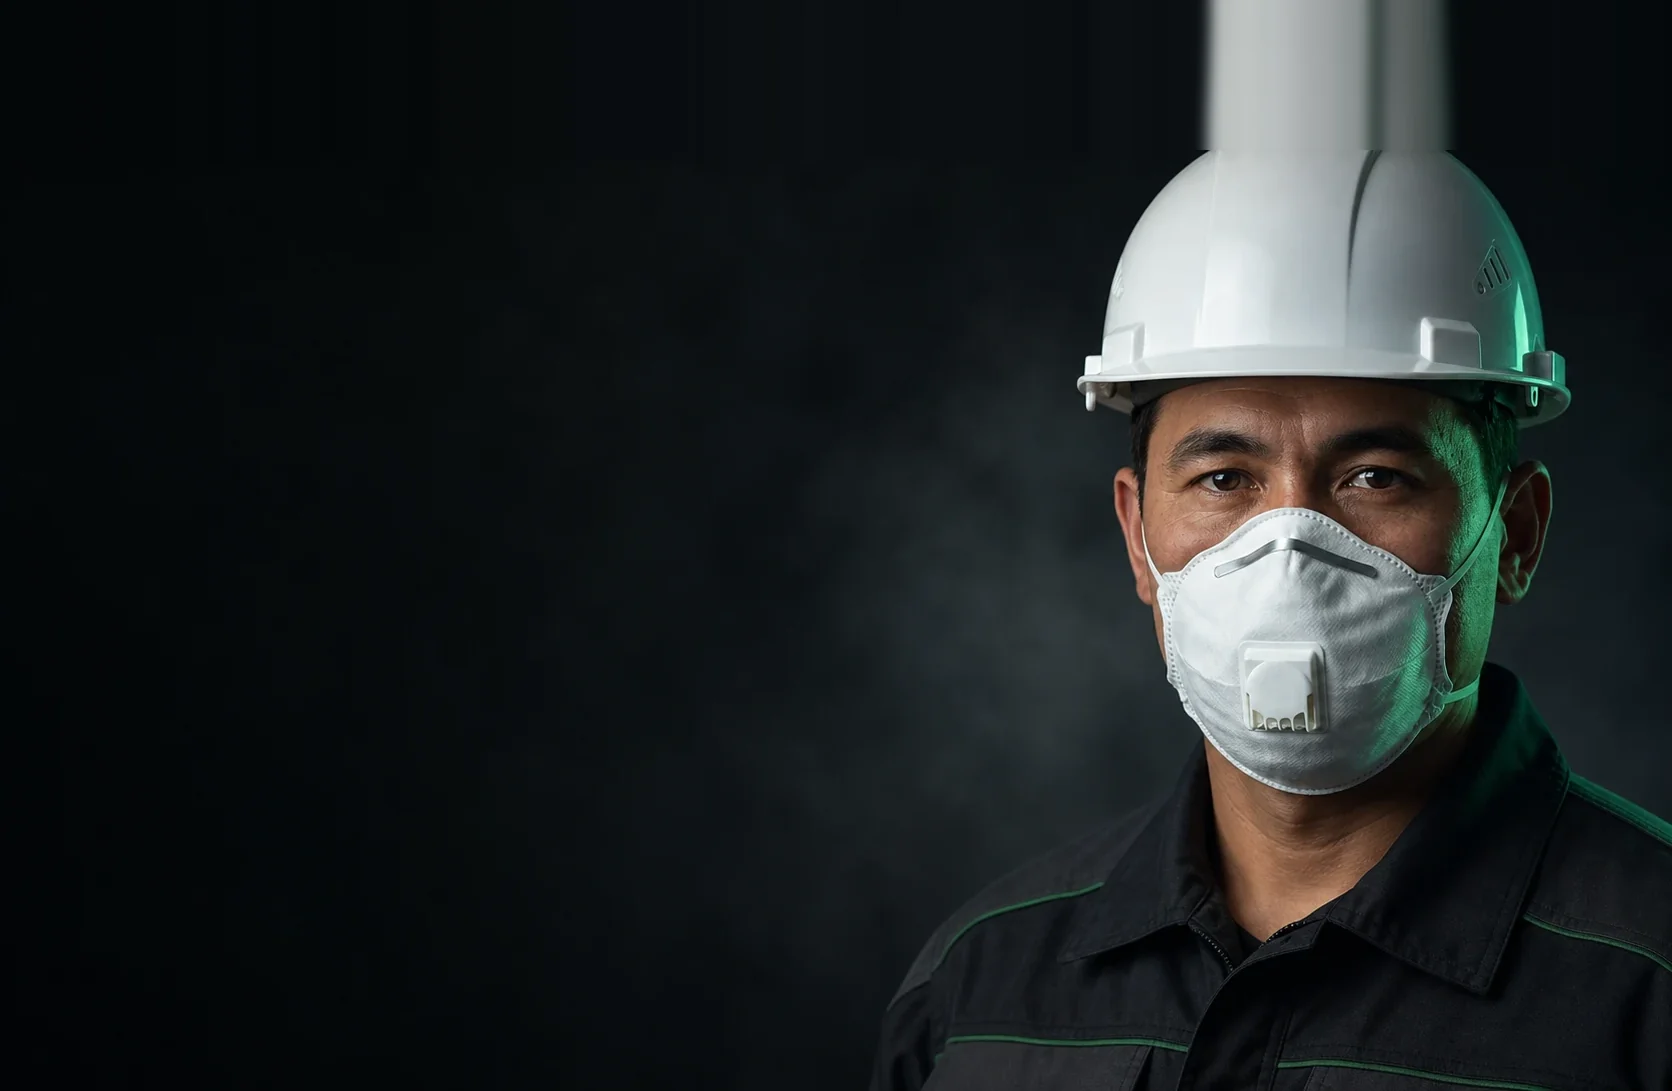
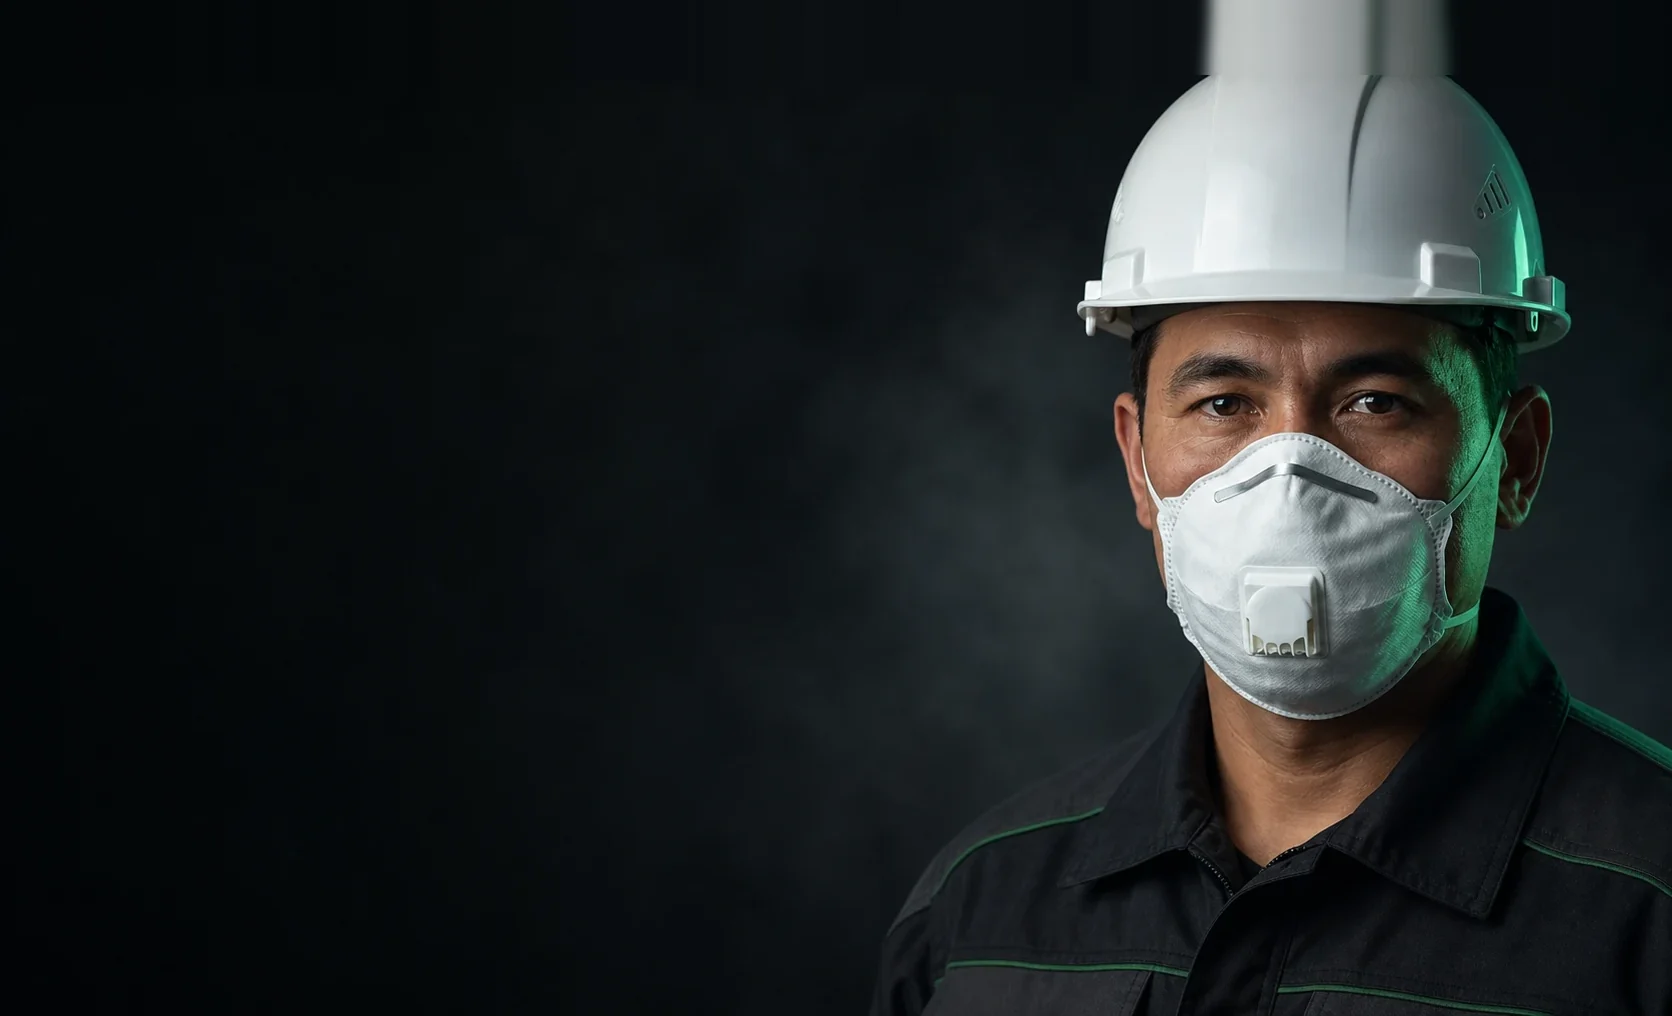
Тексты заявки и подвала, служебная метка из письма клиенту убрана
В готовый текст заявки в WhatsApp попадала внутренняя метка аналитики -
клиент видел строку «Блок: хиро-заявка». Метка осталась только в счётчиках,
из сообщения убрана.

Подпись под кнопкой формы говорила «Соберём готовое сообщение из формы.
Вы проверите его и отправите сами» - непонятно, кто что собирает. Стало
прямо: «Кнопка откроет WhatsApp с готовым текстом заявки - останется
нажать отправить».

Заголовок подвала обещал только опт («Респираторы FAROS оптом»), хотя
розница на странице тоже открыта. Стало «Респираторы FAROS по всему
Казахстану».

Заголовок раздела документов «Что спросит охрана труда» заменён на
«Чем подтверждаем защиту» - раздел про то, что мы даём, а не про то,
что у покупателя спросят.

Декоративное фото рядом с формой убрано.

Рабочий на первом экране поднят: запас над каской уменьшен с 16 % до 8 %.

diff --git a/index.html b/index.html
@@ -1502,55 +1502,66 @@
   }
 
 
-  /* ---------- расчёт годовой потребности ---------- */
+  /* ---------- расчёт годовой потребности ----------
+     Карточка в два регистра: слева форма 2×2 со сноской, справа за волосяной линией -
+     итог с крупным бюджетом и кнопкой. Раньше поля, результаты и подвал шли тремя
+     этажами во всю ширину - карточка была вдвое выше без единой причины. */
   .calc{
     background:var(--panel);border:1px solid var(--line);border-radius:var(--r-l);
     padding:clamp(20px,2.4vw,34px);box-shadow:0 1px 2px rgba(16,20,24,.06),0 12px 32px rgba(16,20,24,.10);
+    display:grid;grid-template-columns:1.04fr .96fr;grid-template-rows:auto 1fr;
+    grid-template-areas:"in res" "fine res";
+    gap:clamp(16px,2vw,26px) clamp(24px,3.2vw,52px);
   }
-  .calc-in{display:grid;grid-template-columns:repeat(3,minmax(0,1fr));gap:clamp(12px,1.4vw,18px);align-items:end}
+  .calc-in{grid-area:in;display:grid;grid-template-columns:1fr 1fr;gap:clamp(12px,1.4vw,18px)}
   .cfield{display:flex;flex-direction:column;gap:8px}
-  .cfield span{
+  .cfield > span{
     font-family:'IBM Plex Mono',monospace;font-size:10px;letter-spacing:var(--ls-cap);
     text-transform:uppercase;color:var(--mute);
   }
   .cfield input{
     width:100%;border:1px solid var(--line);border-radius:var(--r-s);background:#fff;color:var(--ink);
-    padding:12px 14px;font-family:'Archivo',sans-serif;font-stretch:125%;font-weight:800;font-size:20px;
-    font-variant-numeric:tabular-nums;min-height:48px;
+    padding:11px 14px;font-family:'Archivo',sans-serif;font-stretch:125%;font-weight:800;font-size:20px;
+    font-variant-numeric:tabular-nums;min-height:50px;
   }
   .cfield input:focus-visible{outline:2px solid var(--brand);outline-offset:1px}
   .cfield input::-webkit-outer-spin-button,
   .cfield input::-webkit-inner-spin-button{-webkit-appearance:none;margin:0}
-  .cclass{grid-column:1/-1;display:flex;align-items:center;gap:8px 12px;flex-wrap:wrap;margin-top:2px}
-  .cclass .mono{font-size:10px;letter-spacing:var(--ls-cap);text-transform:uppercase;color:var(--mute);margin-right:4px}
-  .calc-out{
-    display:grid;grid-template-columns:repeat(3,minmax(0,1fr));gap:clamp(12px,1.4vw,18px);
-    margin-top:clamp(18px,2vw,26px);padding-top:clamp(16px,1.8vw,22px);border-top:1px solid var(--line);
+  /* класс защиты - четвёртая клетка формы: переключатель одной высоты и ширины с полями */
+  .cfield .seg{display:flex;width:100%;padding:2px}
+  .cfield .seg-b{flex:1;min-height:44px;padding-inline:8px}
+  /* сноска прижата к низу формы: её базовая линия рифмуется с кнопкой в правой колонке */
+  .calc-fine{
+    grid-area:fine;align-self:end;color:var(--mute);max-width:54ch;
+    font-family:'IBM Plex Mono',monospace;font-size:10.5px;line-height:1.7;
+    letter-spacing:var(--ls-cap);text-transform:uppercase;
   }
+  .calc-res{
+    grid-area:res;display:flex;flex-direction:column;gap:clamp(14px,1.6vw,20px);
+    border-left:var(--hair) solid var(--line);padding-left:clamp(24px,3.2vw,52px);
+  }
+  .calc-mini{display:grid;grid-template-columns:1fr 1fr;gap:clamp(12px,1.4vw,18px)}
   .cout{display:flex;flex-direction:column;gap:6px}
   .cout .k{font-family:'IBM Plex Mono',monospace;font-size:10px;letter-spacing:var(--ls-cap);text-transform:uppercase;color:var(--mute)}
   .cout b{
     font-family:'Archivo',sans-serif;font-stretch:125%;font-weight:900;
-    font-size:clamp(1.6rem,3vw,2.4rem);line-height:1;font-variant-numeric:tabular-nums;
+    font-size:clamp(1.25rem,1.8vw,1.7rem);line-height:1;font-variant-numeric:tabular-nums;
   }
   .cout .l{font-size:12px;color:var(--ink-soft)}
-  .cout--sum b{color:var(--brand)}
-  .calc-note{margin-top:14px;font-size:13px;line-height:1.5;color:var(--ink-soft)}
+  /* бюджет - главное число карточки: один крупный фирменный акцент, остальное служебное */
+  .cout--sum b{color:var(--brand);font-size:clamp(1.9rem,3.2vw,3.1rem);letter-spacing:-.01em}
+  .calc-note{font-size:13px;line-height:1.5;color:var(--ink-soft);max-width:46ch}
   /* подсказка появляется только когда до опта не хватает объёма - пустой строки не остаётся */
   .calc-note:empty{display:none}
-  .calc-foot{
-    display:flex;justify-content:space-between;align-items:center;gap:14px 24px;flex-wrap:wrap;
-    margin-top:clamp(16px,1.8vw,24px);padding-top:clamp(14px,1.6vw,20px);border-top:1px solid var(--line);
+  .calc-res .pill{margin-top:auto;align-self:flex-start}
+  @media (max-width:900px){
+    .calc{grid-template-columns:1fr;grid-template-rows:auto;grid-template-areas:"in" "res" "fine"}
+    .calc-res{border-left:0;padding-left:0;border-top:var(--hair) solid var(--line);padding-top:clamp(16px,2.6vw,22px)}
+    .calc-res .pill{margin-top:4px}
   }
-  .calc-foot .mono{
-    font-size:10.5px;letter-spacing:var(--ls-cap);text-transform:uppercase;
-    color:var(--mute);max-width:54ch;line-height:1.6;
-  }
-  @media (max-width:760px){
-    .calc-in,.calc-out{grid-template-columns:1fr 1fr}
-    .cfield:nth-of-type(3){grid-column:1/-1}
-    .cout--sum{grid-column:1/-1}
-    .calc-foot .pill{width:100%;justify-content:center}
+  @media (max-width:560px){
+    .cfield:nth-child(3),.cfield--cls{grid-column:1/-1}
+    .calc-res .pill{align-self:stretch;justify-content:center}
   }
 
   /* ---------- вопросы перед заказом ---------- */
@@ -1624,7 +1635,7 @@
         <img src="assets/hero-premium-v2.webp"
              srcset="assets/hero-premium-v2-1200.webp 1200w, assets/hero-premium-v2.webp 1672w"
              sizes="(max-width:980px) 100vw, 78vw"
-             width="1672" height="1091"
+             width="1672" height="1016"
              alt="Рабочий в каске и фильтрующей полумаске с клапаном выдоха" fetchpriority="high" decoding="async">
       </picture>
     </figure>
@@ -1971,8 +1982,8 @@
         <label class="cfield"><span>Человек на&nbsp;участке</span><input id="c-people" type="number" min="1" max="100000" step="1" value="120" inputmode="numeric"></label>
         <label class="cfield"><span>Рабочих смен в&nbsp;году</span><input id="c-shifts" type="number" min="1" max="366" step="1" value="250" inputmode="numeric"></label>
         <label class="cfield"><span>Масок на&nbsp;человека в&nbsp;смену</span><input id="c-per" type="number" min="1" max="10" step="1" value="1" inputmode="numeric"></label>
-        <div class="cclass">
-          <span class="mono">класс защиты</span>
+        <div class="cfield cfield--cls">
+          <span>Класс защиты</span>
           <div class="seg" role="group" aria-label="Класс защиты">
             <button class="seg-b" type="button" data-ccls="1" aria-pressed="false">FFP1</button>
             <button class="seg-b is-on" type="button" data-ccls="2" aria-pressed="true">FFP2</button>
@@ -1981,16 +1992,15 @@
         </div>
       </div>
 
-      <div class="calc-out" aria-live="polite">
-        <div class="cout"><span class="k">штук в&nbsp;год</span><b id="c-qty">-</b></div>
-        <div class="cout"><span class="k">это коробов</span><b id="c-box">-</b><span class="l">по&nbsp;300 или по&nbsp;400&nbsp;шт</span></div>
+      <p class="calc-fine">расчёт по&nbsp;базовой модели без&nbsp;клапана, STANDART&nbsp;- точную смету соберём по&nbsp;вашему списку</p>
+
+      <div class="calc-res" aria-live="polite">
+        <div class="calc-mini">
+          <div class="cout"><span class="k">штук в&nbsp;год</span><b id="c-qty">-</b></div>
+          <div class="cout"><span class="k">это коробов</span><b id="c-box">-</b><span class="l">по&nbsp;300 или по&nbsp;400&nbsp;шт</span></div>
+        </div>
         <div class="cout cout--sum"><span class="k">бюджет на&nbsp;год</span><b id="c-sum">-</b><span class="l" id="c-tier">-</span></div>
-      </div>
-
-      <p class="calc-note" id="c-hint"></p>
-
-      <div class="calc-foot">
-        <span class="mono">расчёт по&nbsp;базовой модели без&nbsp;клапана, исполнение STANDART&nbsp;- точную смету соберём по&nbsp;вашему списку</span>
+        <p class="calc-note" id="c-hint"></p>
         <a class="pill pill--brand" href="#contact" data-place="расчёт">Запросить счёт на&nbsp;этот объём</a>
       </div>
     </div>
@@ -2000,7 +2010,7 @@
   <!-- ЭКРАН 7: документы -->
   <section id="docs" aria-label="Документы и стандарты">
     <div class="sec-head rv">
-      <h2 class="display"><span class="kick">Документы</span>Что спросит <br>охрана труда<em>.</em></h2>
+      <h2 class="display"><span class="kick">Документы</span>Чем подтверждаем<br>защиту<em>.</em></h2>
       <div class="sec-side"><span class="note">Маркировку проверяет служба охраны труда; документы по&nbsp;выбранной модели и&nbsp;исполнению пришлём вместе со&nbsp;счётом.</span></div>
     </div>
 
@@ -2153,7 +2163,7 @@
               <svg viewBox="0 0 24 24" fill="currentColor" aria-hidden="true"><path d="M12 2a10 10 0 0 0-8.6 15.1L2 22l5-1.3A10 10 0 1 0 12 2Zm5.5 14c-.2.6-1.2 1.2-1.7 1.2-.5.1-1 .1-1.6-.1-.4-.1-.9-.3-1.5-.6-2.6-1.1-4.3-3.8-4.4-4-.1-.2-1-1.4-1-2.6 0-1.2.6-1.8.9-2.1.2-.2.5-.3.7-.3h.5c.2 0 .4 0 .6.5l.8 1.9c.1.2 0 .4-.1.5l-.3.4-.3.3c-.1.1-.2.3-.1.5.1.2.6 1.1 1.4 1.8 1 .9 1.8 1.1 2 1.2.2.1.4.1.5-.1l.7-.8c.2-.2.3-.2.5-.1l1.8.9c.2.1.4.2.4.3.1.2.1.7-.1 1.3Z"/></svg>
               Подготовить заявку в&nbsp;WhatsApp
             </button>
-            <span class="f-note">Соберём готовое сообщение из&nbsp;формы. Вы&nbsp;проверите его и&nbsp;отправите сами.</span>
+            <span class="f-note">Кнопка откроет WhatsApp с&nbsp;готовым текстом заявки&nbsp;- останется нажать «отправить».</span>
           </div>
           <div class="f-ok" id="f-ok" role="status">
             <svg viewBox="0 0 24 24" fill="none" stroke="currentColor" stroke-width="2" aria-hidden="true"><path d="M20 6 9 17l-5-5"/></svg>
@@ -2176,14 +2186,6 @@
           </div>
         </form>
       </div>
-
-      <figure class="ct-side rv">
-        <img src="assets/final.webp" width="896" height="1200" alt="Рабочий в каске, очках и полумаске FAROS FR 4310W FFP3" loading="lazy" decoding="async">
-        <figcaption class="ct-cap">
-          <b>FR&nbsp;4310W&nbsp;· FFP3</b>
-          <span class="mono">клапан выдоха&nbsp;· до&nbsp;50&nbsp;ПДК&nbsp;· NR&nbsp;D</span>
-        </figcaption>
-      </figure>
     </div>
   </section>
 
@@ -2193,7 +2195,7 @@
 
 <footer class="foot" aria-label="Контакты">
   <div class="foot-top">
-      <h2 class="foot-title display"><span>Респираторы FAROS</span><span>оптом<i class="ft-dash">&nbsp;-</i> <em>по&nbsp;Казахстану</em></span></h2>
+      <h2 class="foot-title display"><span>Респираторы FAROS</span><span><em>по&nbsp;всему Казахстану</em></span></h2>
     <div class="foot-contact">
       <a class="foot-phone" href="tel:+77710519449">+7&nbsp;771&nbsp;051&nbsp;94&nbsp;49</a>
       <a class="foot-email" href="mailto:sale@alltrade-ltd.kz">sale@alltrade-ltd.kz</a>
@@ -2294,7 +2296,7 @@ window.FAROS_CONFIG = {
   window.farosMessage=function(head,place){
     var lines=(head&&head.length?head.slice():[HELLO]);
     lines.push(SITE);
-    if(place) lines.push('Блок: '+place);
+    /* служебная метка блока в текст клиенту не попадает - она только в аналитике */
     if(window.farosAds&&window.farosAds.line) lines.push(window.farosAds.line);
     return lines.join('\n');
   };
